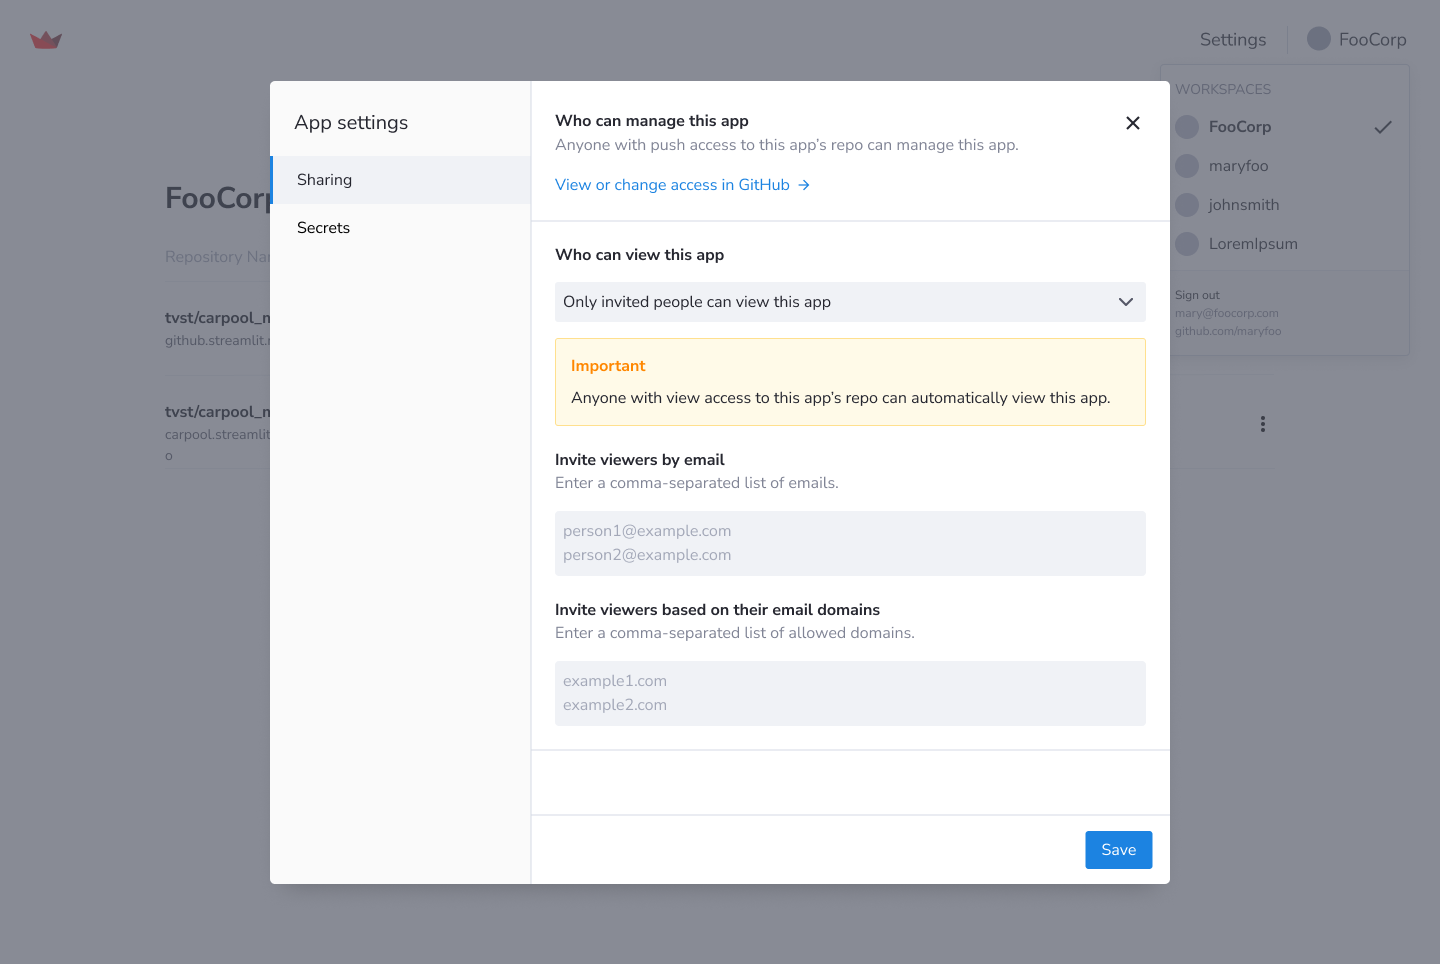
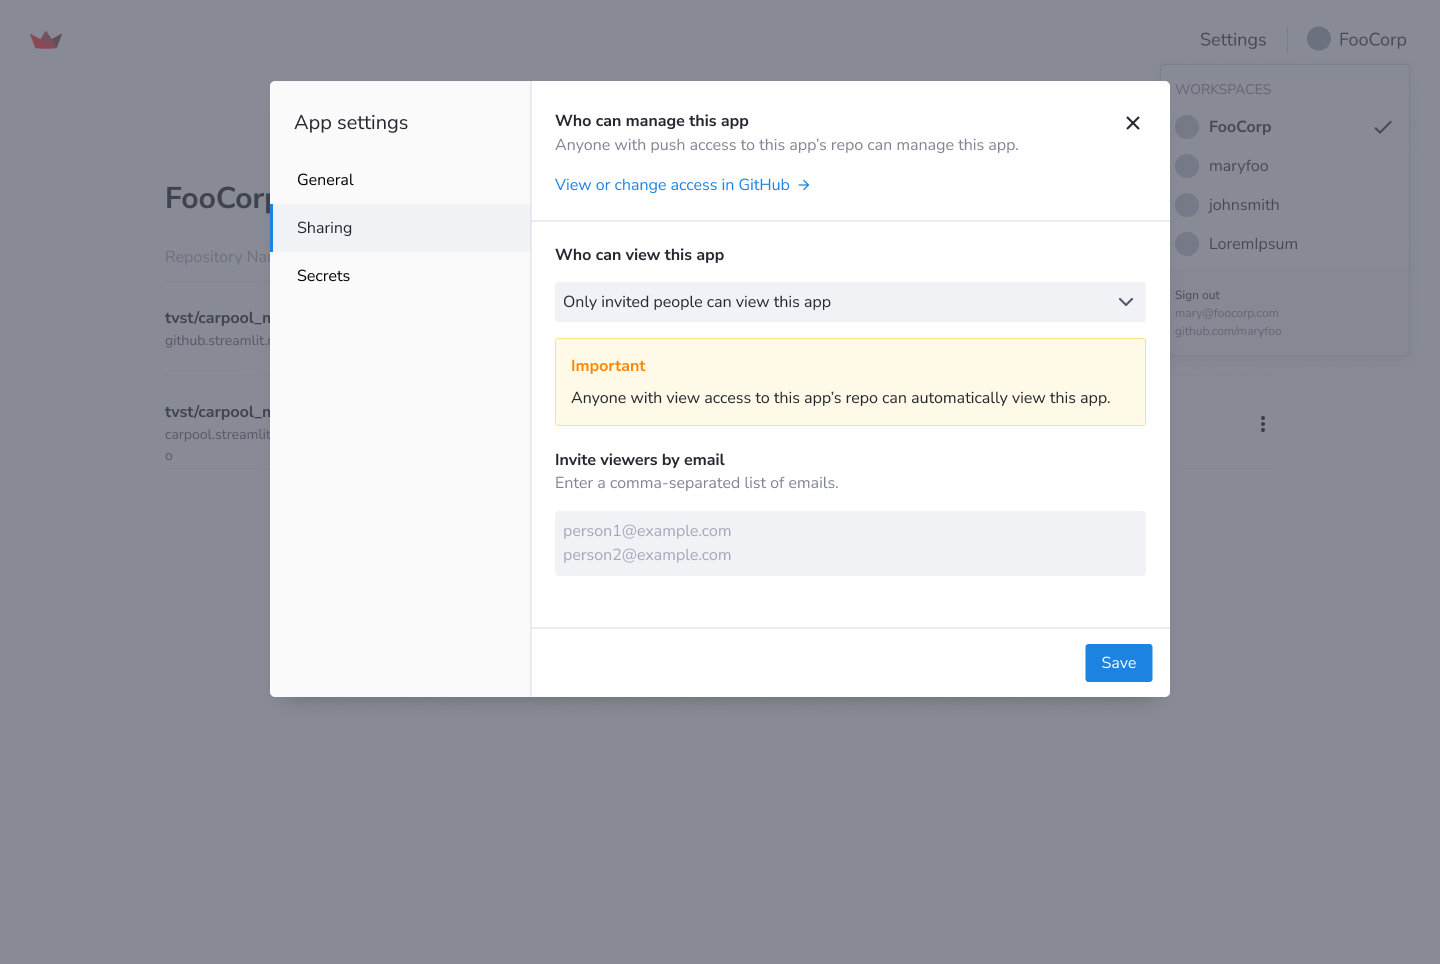
Remove mentions of allow-listing email domains

Changed region(s): [[0.1875, 0.6224, 0.8125, 0.9336], [0.1875, 0.1867, 0.25, 0.249], [0.2188, 0.2801, 0.25, 0.3112]]

diff --git a/content/kb/deployments/share-apps-with-viewers-outside-organization.md b/content/kb/deployments/share-apps-with-viewers-outside-organization.md
@@ -32,7 +32,7 @@ From your deployed app you can easily add viewers from your developer console.
 </div>
 3. **Add Viewers in Settings.**
 
-   You can choose to allow anyone from a domain, for example allowing "foo.corp" would allow anyone with an email from foo.corp. Or you can choose to allow only selected viewers based on their individual emails. Make sure to enter them as a line-separated list.
+   You can choose to allow only selected viewers based on their individual emails. Make sure to enter them as a line-separated list.
 
    ![Add viewers](/images/streamlit-cloud/add-viewers.png)
 
@@ -54,7 +54,7 @@ You can also add viewers directly from your dashboard.
 
 2. **Add Viewers in Settings**
 
-   Click on the "Sharing" section in the App Settings and in the text input area, provide a line-separated list of email addresses for the users you wish to grant viewer access to your app, or provide a line-separated list of allowed email address domains. Click "Save."
+   Click on the "Sharing" section in the App Settings and in the text input area, provide a line-separated list of email addresses for the users you wish to grant viewer access to your app. Click "Save."
 
    <div style={{ maxWidth: '75%', marginBottom: '-3em', marginLeft: '5em' }}>
        <Image src="/images/streamlit-cloud/add-viewers.png" />

diff --git a/content/streamlit-cloud/get-started/share-your-app/index.md b/content/streamlit-cloud/get-started/share-your-app/index.md
@@ -105,7 +105,7 @@ From your deployed app you can easily add viewers from your Cloud logs menu.
 
 3. **Add Viewers in Settings.**
 
-   You can choose to allow anyone from a domain, for example allowing "foo.corp" would allow anyone with an email from foo.corp. Or you can choose to allow only selected viewers based on their individual emails. Make sure to enter them as a line-separated list.
+   You can choose to allow only selected viewers based on their individual emails. Make sure to enter them as a line-separated list.
 
    ![Add viewers](/images/streamlit-cloud/add-viewers.png)
 
@@ -123,7 +123,7 @@ You can also add viewers directly from your dashboard.
 
 2. **Add Viewers in Settings**
 
-   Click on the "Sharing" section in the App Settings and in the text input area, provide a line-separated list of email addresses for the users you wish to grant viewer access to your app, or provide a line-separated list of allowed email address domains. Click "Save."
+   Click on the "Sharing" section in the App Settings and in the text input area, provide a line-separated list of email addresses for the users you wish to grant viewer access to your app. Click "Save."
 
    <div style={{ maxWidth: '75%', marginBottom: '-3em', marginLeft: '5em' }}>
        <Image src="/images/streamlit-cloud/add-viewers.png" />
